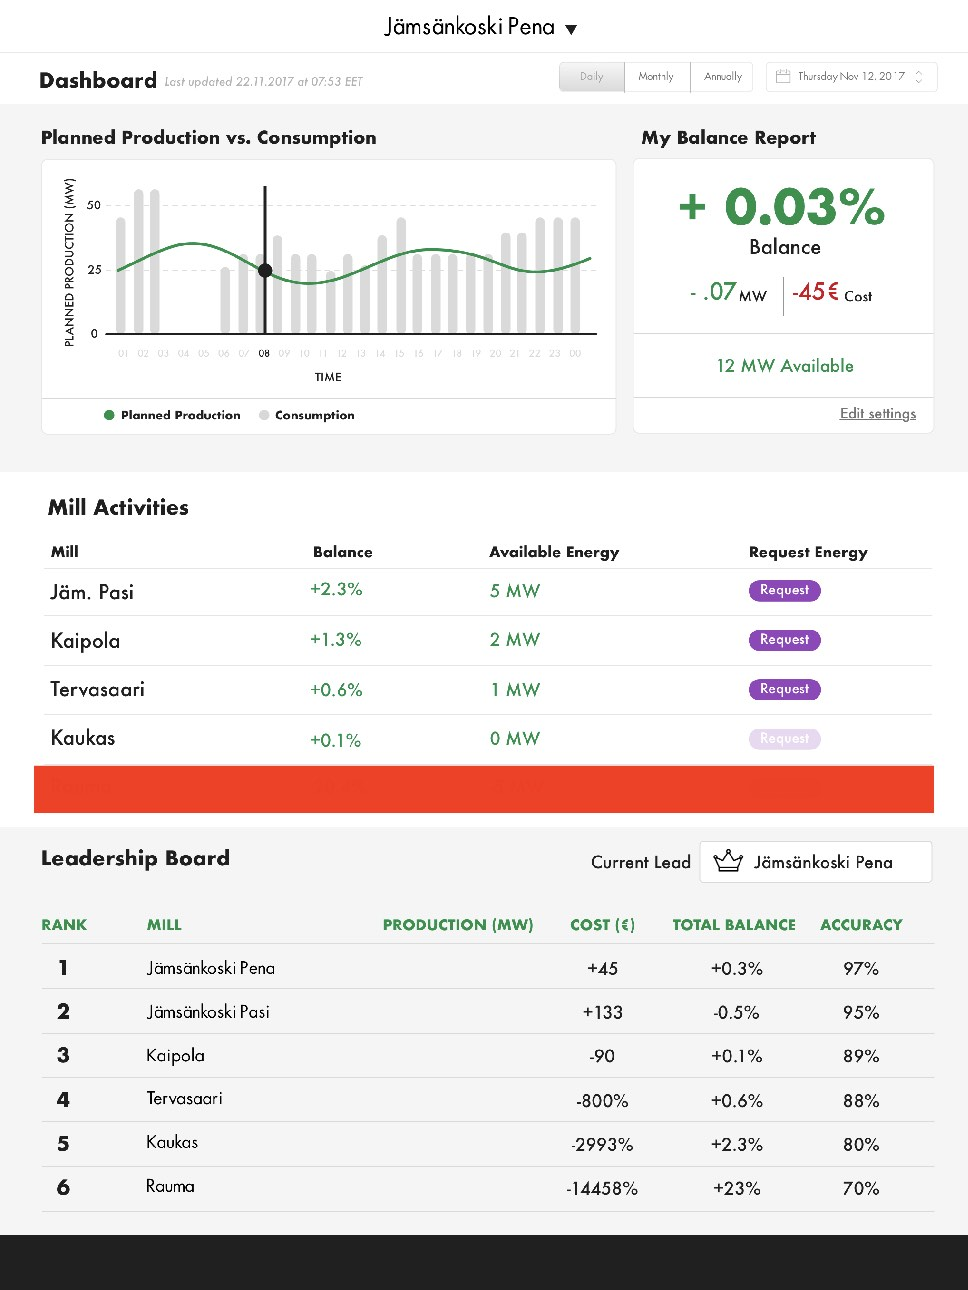
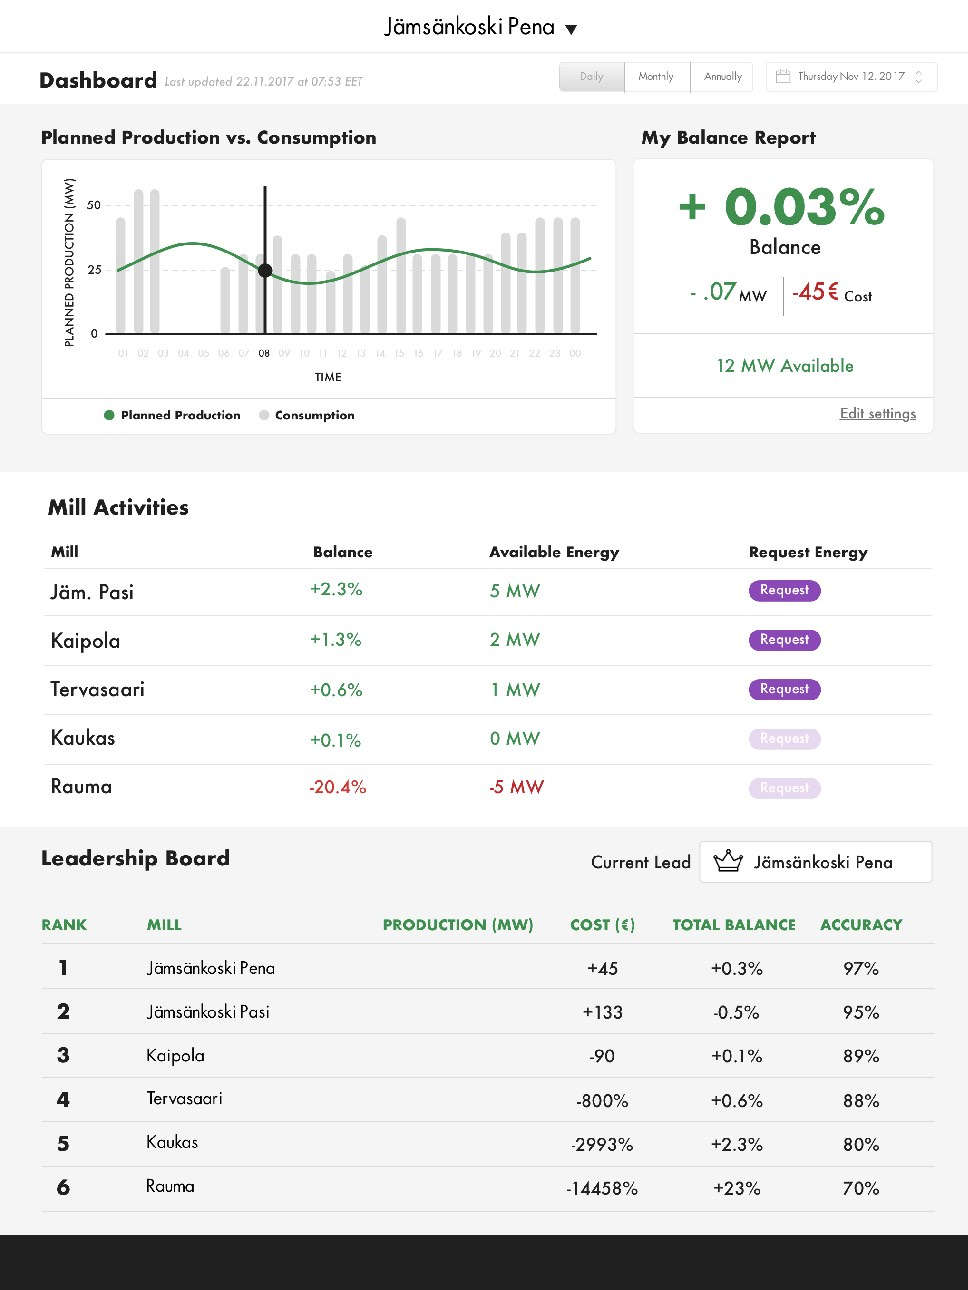
timeline control

Changed region(s): [[0.031, 0.5891, 0.9917, 0.6512]]

diff --git a/public/index.hyperesources/index_hype_generated_script.js b/public/index.hyperesources/index_hype_generated_script.js
@@ -3,5 +3,5 @@
 (function(){(function k(){function l(a,b,d){var c=!1;null==window[a]&&(null==window[b]?(window[b]=[],window[b].push(k),a=document.getElementsByTagName("head")[0],b=document.createElement("script"),c=h,false==!0&&(c=""),b.type="text/javascript",b.src=c+"/"+d,a.appendChild(b)):window[b].push(k),c=!0);return c}var h="index.hyperesources",c="index",e="index_hype_container";if(false==!1)try{for(var f=document.getElementsByTagName("script"),
 a=0;a<f.length;a++){var b=f[a].src,d=null!=b?b.indexOf("index_hype_generated_script.js"):-1;if(-1!=d){h=b.substr(0,d-1);break}}}catch(n){}if(false==!1&&(a=navigator.userAgent.match(/MSIE (\d+\.\d+)/),a=parseFloat(a&&a[1])||null,a=l("HYPE_578","HYPE_dtl_578",!0==(null!=a&&10>a||false==!0)?"HYPE-578.full.min.js":"HYPE-578.thin.min.js"),false==!0&&(a=a||l("HYPE_w_578","HYPE_wdtl_578","HYPE-578.waypoints.min.js")),a))return;f=window.HYPE.documents;
 if(null!=f[c]){b=1;a=c;do c=""+a+"-"+b++;while(null!=f[c]);d=document.getElementsByTagName("div");b=!1;for(a=0;a<d.length;a++)if(d[a].id==e&&null==d[a].getAttribute("HYP_dn")){var b=1,g=e;do e=""+g+"-"+b++;while(null!=document.getElementById(e));d[a].id=e;b=!0;break}if(!1==b)return}b=[];b=[];d={};g={};for(a=0;a<b.length;a++)try{g[b[a].identifier]=b[a].name,d[b[a].name]=eval("(function(){return "+b[a].source+"})();")}catch(m){window.console&&window.console.log(m),d[b[a].name]=
-function(){}}a=new HYPE_578(c,e,{"1":{p:1,n:"Desktop%20HD_2x.jpg",g:"13",o:true,t:"@2x"},"-2":{n:"blank.gif"},"-1":{n:"PIE.htc"},"0":{p:1,n:"Desktop%20HD.jpg",g:"13",o:true,t:"@1x"}},h,[],d,[{n:"\u540d\u79f0\u672a\u8a2d\u5b9a\u306e\u30b7\u30fc\u30f3",o:"1",X:[0]}],[{o:"12",p:"600px",cA:false,Y:1200,Z:1600,L:[],c:"#FFFFFF",bY:1,d:1200,U:{},T:{kTimelineDefaultIdentifier:{i:"kTimelineDefaultIdentifier",n:"\u30e1\u30a4\u30f3\u30bf\u30a4\u30e0\u30e9\u30a4\u30f3",z:15,b:[],a:[{f:"c",y:1,z:0.29,i:"e",e:0,s:1,o:"35"},{f:"c",y:1.14,z:0.29,i:"e",e:0,s:1,o:"34"},{y:1.29,i:"e",s:0,z:0,o:"35",f:"c"},{f:"c",y:2,z:0.29,i:"e",e:0,s:1,o:"36"},{y:2.13,i:"e",s:0,z:0,o:"34",f:"c"},{y:2.29,i:"e",s:0,z:0,o:"36",f:"c"},{f:"c",y:9,z:0.15,i:"e",e:1,s:0,o:"37"},{f:"c",y:9.15,z:0.15,i:"e",e:0,s:1,o:"37"},{f:"c",y:10,z:0.15,i:"e",e:1,s:0,o:"37"},{f:"c",y:10.15,z:0.15,i:"e",e:0,s:1,o:"37"},{f:"c",y:11,z:0.15,i:"e",e:1,s:0,o:"37"},{f:"c",y:11.15,z:0.15,i:"e",e:0,s:1,o:"37"},{f:"c",y:12,z:0.15,i:"e",e:1,s:0,o:"37"},{f:"c",y:12.15,z:0.15,i:"e",e:0,s:1,o:"37"},{f:"c",p:2,y:13,z:2,i:"ActionHandler",e:{a:[{}]},s:{a:[{i:9,b:"kTimelineDefaultIdentifier",p:9,symbolOid:"11"}]},o:"kTimelineDefaultIdentifier"},{y:13,i:"e",s:0,z:0,o:"37",f:"c"},{f:"c",p:2,y:15,z:0,i:"ActionHandler",s:{a:[{p:7,b:"kTimelineDefaultIdentifier",symbolOid:"11"}]},o:"kTimelineDefaultIdentifier"}],f:30}},bZ:180,O:["33","35","34","37","36"],n:"\u30c7\u30b9\u30af\u30c8\u30c3\u30d7","_":0,v:{"34":{c:1198,d:444,I:"None",e:1,J:"None",K:"None",g:"#F5F5F5",L:"None",M:0,w:"",N:0,A:"#D8DDE4",x:"visible",j:"absolute",B:"#D8DDE4",k:"div",O:0,C:"#D8DDE4",z:4,P:0,D:"#D8DDE4",a:1,b:584},"37":{c:1116,d:59,I:"None",e:0,J:"None",K:"None",g:"#FF2600",L:"None",aP:"pointer",M:0,N:0,A:"#F90000",x:"visible",aA:{a:[{i:14,b:"kTimelineDefaultIdentifier",p:9,symbolOid:"11"}]},O:0,j:"absolute",k:"div",dB:"button",z:6,C:"#F90000",D:"#F90000",B:"#F90000",P:0,a:42,b:949},"33":{h:"13",p:"no-repeat",x:"visible",a:-250,q:"100% 100%",b:0,j:"absolute",dB:"img",z:1,k:"div",c:1698,d:1620,r:"inline"},"36":{c:1198,d:480,I:"None",e:1,J:"None",K:"None",g:"#F5F5F5",L:"None",M:0,w:"",N:0,A:"#D8DDE4",x:"visible",j:"absolute",B:"#D8DDE4",k:"div",O:0,C:"#D8DDE4",z:3,P:0,D:"#D8DDE4",a:2,b:1037},"35":{c:1198,d:429,I:"None",e:1,J:"None",K:"None",g:"#F5F5F5",L:"None",M:0,w:"",N:0,A:"#D8DDE4",x:"visible",j:"absolute",B:"#D8DDE4",k:"div",O:0,C:"#D8DDE4",z:5,P:0,D:"#D8DDE4",a:2,b:131}}}],{},g,{},null,false,true,-1,true,true,false,true);f[c]=a.API;document.getElementById(e).setAttribute("HYP_dn",
+function(){}}a=new HYPE_578(c,e,{"1":{p:1,n:"Desktop%20HD_2x.jpg",g:"13",o:true,t:"@2x"},"-2":{n:"blank.gif"},"-1":{n:"PIE.htc"},"0":{p:1,n:"Desktop%20HD.jpg",g:"13",o:true,t:"@1x"}},h,[],d,[{n:"\u540d\u79f0\u672a\u8a2d\u5b9a\u306e\u30b7\u30fc\u30f3",o:"1",X:[0]}],[{o:"12",p:"600px",cA:false,Y:1200,Z:1600,L:[],c:"#FFFFFF",bY:1,d:1200,U:{},T:{kTimelineDefaultIdentifier:{i:"kTimelineDefaultIdentifier",n:"\u30e1\u30a4\u30f3\u30bf\u30a4\u30e0\u30e9\u30a4\u30f3",z:18,b:[],a:[{f:"c",y:2,z:0.29,i:"e",e:0,s:1,o:"35"},{y:2.29,i:"e",s:0,z:0,o:"35",f:"c"},{f:"c",y:3,z:0.29,i:"e",e:0,s:1,o:"36"},{y:3.29,i:"e",s:0,z:0,o:"36",f:"c"},{f:"c",y:4,z:0.29,i:"e",e:0,s:1,o:"33"},{y:4.29,i:"e",s:0,z:0,o:"33",f:"c"},{f:"c",y:12,z:0.15,i:"e",e:1,s:0,o:"34"},{f:"c",y:12.15,z:0.15,i:"e",e:0,s:1,o:"34"},{f:"c",y:13,z:0.15,i:"e",e:1,s:0,o:"34"},{f:"c",y:13.15,z:0.15,i:"e",e:0,s:1,o:"34"},{f:"c",y:14,z:0.15,i:"e",e:1,s:0,o:"34"},{f:"c",y:14.15,z:0.15,i:"e",e:0,s:1,o:"34"},{f:"c",y:15,z:0.15,i:"e",e:1,s:0,o:"34"},{f:"c",y:15.15,z:0.15,i:"e",e:0,s:1,o:"34"},{f:"c",p:2,y:16,z:2,i:"ActionHandler",e:{a:[{b:"kTimelineDefaultIdentifier",symbolOid:"11",p:7}]},s:{a:[{i:9,b:"kTimelineDefaultIdentifier",p:9,symbolOid:"11"}]},o:"kTimelineDefaultIdentifier"},{y:16,i:"e",s:0,z:0,o:"34",f:"c"},{f:"c",p:2,y:18,z:0,i:"ActionHandler",s:{a:[{b:"kTimelineDefaultIdentifier",symbolOid:"11",p:7}]},o:"kTimelineDefaultIdentifier"}],f:30}},bZ:180,O:["37","35","36","34","33"],n:"\u30c7\u30b9\u30af\u30c8\u30c3\u30d7","_":0,v:{"34":{c:1116,d:59,I:"None",e:0,J:"None",K:"None",g:"#FF2600",L:"None",aP:"pointer",M:0,N:0,A:"#F90000",x:"visible",aA:{a:[{i:14,b:"kTimelineDefaultIdentifier",p:9,symbolOid:"11"}]},O:0,j:"absolute",k:"div",dB:"button",z:6,C:"#F90000",D:"#F90000",B:"#F90000",P:0,a:42,b:949},"37":{h:"13",p:"no-repeat",x:"visible",a:-250,q:"100% 100%",b:0,j:"absolute",dB:"img",z:1,k:"div",c:1698,d:1620,r:"inline"},"33":{c:1198,d:480,I:"None",e:1,J:"None",K:"None",g:"#F5F5F5",L:"None",M:0,w:"",N:0,A:"#D8DDE4",x:"visible",j:"absolute",B:"#D8DDE4",k:"div",O:0,C:"#D8DDE4",z:3,P:0,D:"#D8DDE4",a:2,b:1037},"36":{c:1198,d:444,I:"None",e:1,J:"None",K:"None",g:"#F5F5F5",L:"None",M:0,w:"",N:0,A:"#D8DDE4",x:"visible",j:"absolute",B:"#D8DDE4",k:"div",O:0,C:"#D8DDE4",z:4,P:0,D:"#D8DDE4",a:1,b:584},"35":{c:1198,d:429,I:"None",e:1,J:"None",K:"None",g:"#F5F5F5",L:"None",M:0,w:"",N:0,A:"#D8DDE4",x:"visible",j:"absolute",B:"#D8DDE4",k:"div",O:0,C:"#D8DDE4",z:5,P:0,D:"#D8DDE4",a:2,b:131}}}],{},g,{},null,false,true,-1,true,true,false,true);f[c]=a.API;document.getElementById(e).setAttribute("HYP_dn",
 c);a.z_o(this.body)})();})();

diff --git a/public/index.html b/public/index.html
@@ -24,7 +24,7 @@
 	<!-- copy these lines to your document: -->
 
 	<div id="index_hype_container" style="margin:auto;position:relative;width:1200px;height:1600px;overflow:hidden;">
-		<script type="text/javascript" charset="utf-8" src="index.hyperesources/index_hype_generated_script.js?88919"></script>
+		<script type="text/javascript" charset="utf-8" src="index.hyperesources/index_hype_generated_script.js?82057"></script>
 	</div>
 
 	<!-- end copy -->
